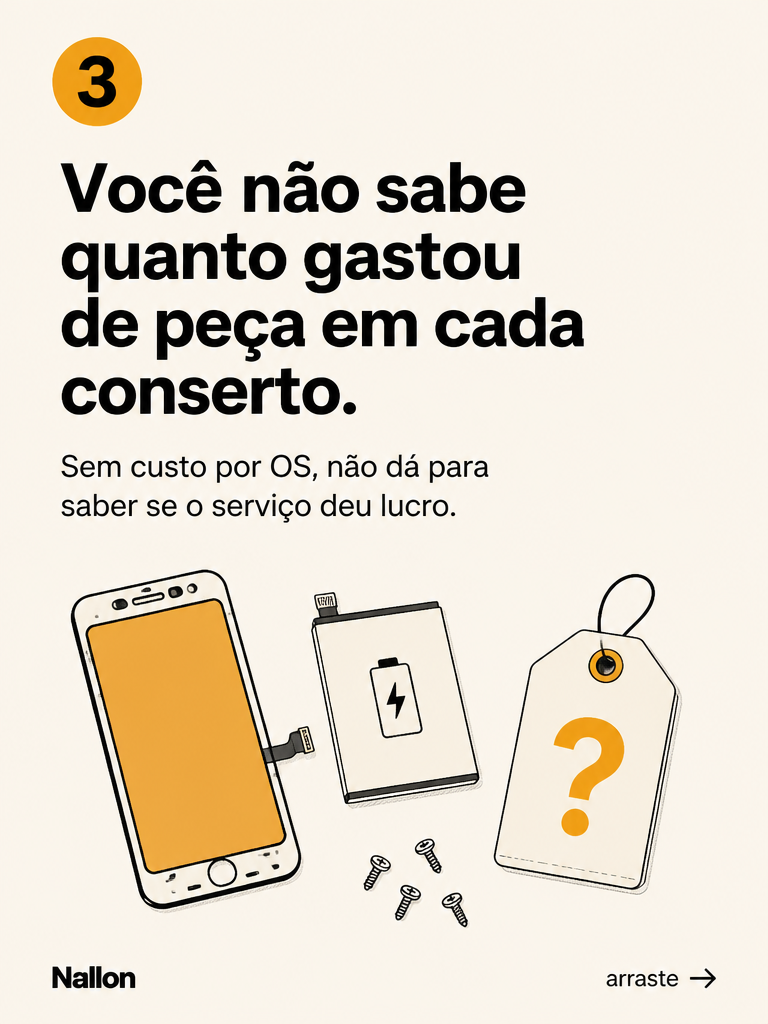
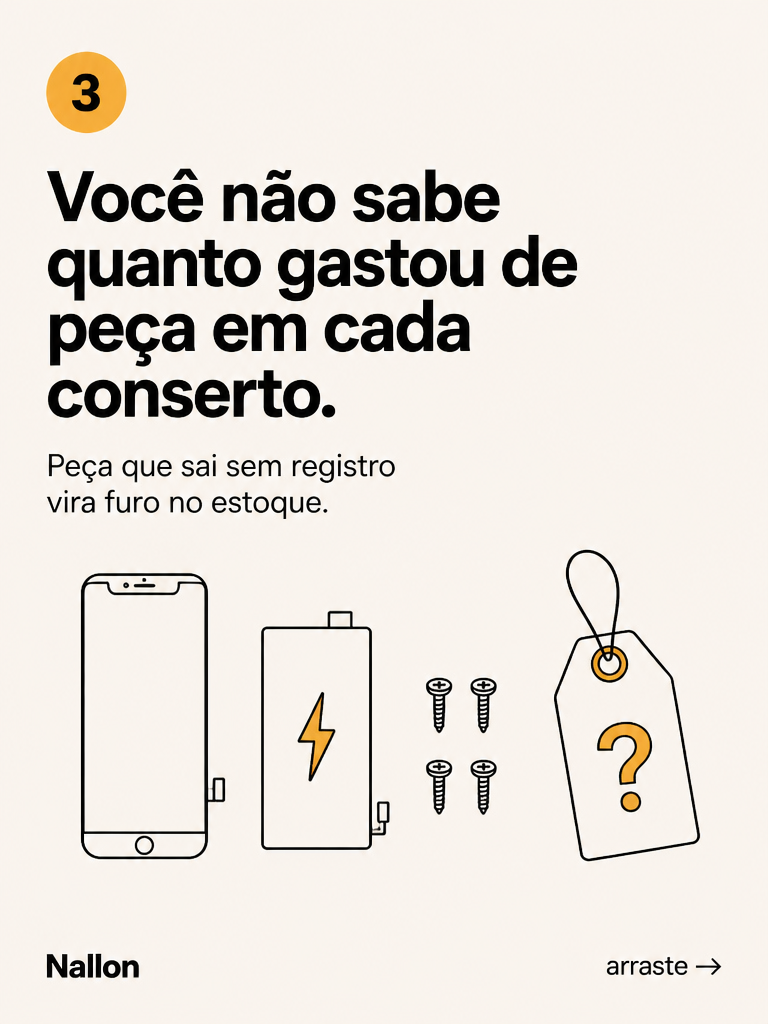
docs(semana-01): audit weekly plan and redo carousel slides 4 and 7
Slide 7 now names the Pro plan for the AI diagnosis and slide 4 no longer implies profit per service order. The plan gains a status table, alt text, fallback story answers, a metrics section and a refreshed pending list; captions get the brand hashtag and the WhatsApp call points to the bio link.

diff --git a/planejamento/semana-01.md b/planejamento/semana-01.md
@@ -1,47 +1,51 @@
 # Nallon no Instagram: semana 1
 
-Tem 3 posts no feed (um por nicho, um por objetivo) e Stories para os outros dias.
-Tudo aqui vem do que o sistema faz hoje. Não inventei número, depoimento nem cliente.
+Três posts no feed, um por nicho e um por objetivo, e Stories nos outros dias.
+Tudo aqui vem do que o sistema faz hoje: sem número, depoimento ou cliente inventado.
+As regras de conteúdo e a identidade ficam no `CLAUDE.md`; o estilo das artes, em `docs/guia-artes.md`.
 
-| Dia | Formato | Nicho | Objetivo |
-|---|---|---|---|
-| Seg | Carrossel | Assistência técnica | Reconhecimento |
-| Qua | Reels | Comércio geral | Teste grátis |
-| Sex | Post único | Prestadores de serviço | Contato WhatsApp |
-| Ter, Qui, Sáb | Stories | Todos | Os três |
+A semana ainda não tem data. Ao agendar, anote aqui a segunda-feira de início.
 
-Identidade visual: âmbar `#e8a33d`, fundo creme `#f5f1ea`, texto `#1a1714`. Títulos em Space Grotesk, texto em Geist.
-Use o mesmo modelo em todos os slides do carrossel. As artes prontas ficam em `artes/semana-01/`.
+| Dia | Formato | Nicho | Objetivo | Ação pedida | Arquivos | Situação |
+|---|---|---|---|---|---|---|
+| Seg | Carrossel | Assistência técnica | Reconhecimento | Comentar e enviar | `seg-carrossel-01` a `08` | Pronto |
+| Ter | Stories | Assistência técnica | Reconhecimento | Votar na enquete | `ter-story-enquete` | Pronto |
+| Qua | Reels | Comércio geral | Teste grátis | Link na bio | `videos/AAAA-MM-DD-pdv` | Gerar |
+| Qui | Stories | Todos | Teste grátis | Link do teste | `qui-story-pergunta`, `qui-story-teste` | Falta a captura do story 1 |
+| Sex | Post único | Prestadores de serviço | Contato WhatsApp | Chamar no WhatsApp | `sex-post` | Pronto |
+| Sáb | Stories | Todos | Contato WhatsApp | Chamar no WhatsApp | `sab-story-nota`, `sab-story-whatsapp` | Pronto |
+
+As artes ficam em `artes/semana-01/`. Barbearias e clínicas ficaram de fora desta semana: entram na semana 2.
 
 ---
 
 ## Segunda: carrossel (assistência técnica)
 
-Estrutura: lista numerada. Cada slide traz um problema que o técnico reconhece.
+Lista numerada: cada slide traz um problema que o técnico reconhece. A solução só aparece no slide 7.
 
 **Slide 1 (capa)**
 > 5 sinais de que sua assistência perdeu o controle das OS
 > (o 3º acontece toda semana)
 
-**Slide 2**
+**Slide 2 (sinal 1)**
 > O cliente liga perguntando do aparelho
 > e ninguém sabe dizer em que pé está.
 > Se a OS mora no caderno, a resposta mora na memória de alguém.
 
-**Slide 3**
+**Slide 3 (sinal 2)**
 > Aparelho pronto na prateleira há 30 dias
 > e você nem lembra de quem é.
 > Todo dia parado ocupa espaço e segura dinheiro.
 
-**Slide 4**
+**Slide 4 (sinal 3)**
 > Você não sabe quanto gastou de peça em cada conserto.
-> Sem custo por OS, não dá para saber se o serviço deu lucro.
+> Peça que sai sem registro vira furo no estoque.
 
-**Slide 5**
+**Slide 5 (sinal 4)**
 > O cliente pagou metade, vai pagar o resto "semana que vem"
 > e isso está anotado num papel que sumiu.
 
-**Slide 6**
+**Slide 6 (sinal 5)**
 > O diagnóstico depende de um técnico só.
 > Se ele falta, a bancada para.
 
@@ -64,29 +68,30 @@ Se você reconheceu 2 ou mais desses sinais, sua assistência já passou do tama
 
 O Nallon junta ordens de serviço, estoque, caixa e fiado num só sistema, direto no navegador. Não precisa instalar nada.
 
-Comenta quantos sinais você viu esta semana 👇
+Comenta quantos sinais você viu esta semana 👇 e manda este post para o seu sócio.
 
-#assistenciatecnica #ordemdeservico #assistenciadecelular #gestaodeloja
+#nallon #assistenciatecnica #ordemdeservico #assistenciadecelular #gestaodeloja
 ```
+
+**Texto alternativo:** Carrossel "5 sinais de que sua assistência perdeu o controle das OS", com ilustrações de bancada, caderno e aparelhos.
 
 ---
 
 ## Quarta: Reels (comércio geral)
 
-Formato: demonstração do PDV gerada com `/brag-instagram` (setor PDV), a partir do app local com a loja fictícia "Aurora Celulares". Duração: 20 a 30 s.
-Nada é gravado à mão: a skill captura as telas e gera a narração.
+Setor PDV, gerado com `/reels-nallon` a partir do app local, com a loja fictícia "Aurora Celulares". Duração de 20 a 30 s.
+A skill escreve o roteiro final em `planejamento/roteiros/pdv.md` e segue `docs/direcao-visual-reels.md`. A linha abaixo é o ponto de partida.
 
-| Tempo | Tela | Texto na tela | Fala |
-|---|---|---|---|
-| 0–3 s | Frase grande sobre o fundo da marca, depois corte para a tela do PDV | "Ainda vende no caderno?" | "Ainda anota venda no caderno?" |
-| 3–10 s | Código de barras digitado no campo (é o que o leitor faz) e itens entrando no carrinho | "Bipa o produto" | "No Nallon, você bipa o produto…" |
-| 10–18 s | Tecla F4, forma de pagamento, cupom na tela | "F4 finaliza. Cupom na hora." | "…aperta F4 para finalizar e imprime o cupom." |
-| 18–25 s | Estoque baixando e depois o dashboard | "O estoque baixa sozinho" | "O estoque já baixou e a venda já está no relatório." |
-| 25–27 s | "10 dias grátis, sem cartão" | "Teste grátis: link na bio" | "Testa dez dias grátis, sem cartão." |
-| 27–30 s | Encerramento limpo: logo Nallon e assinatura | "Nallon. Gestão inteligente para o seu negócio." | "Nallon. Gestão inteligente para o seu negócio." |
+| Cena | Tela | Fala |
+|---|---|---|
+| Gancho | Tela do PDV já aberta | "Ainda anota venda no caderno?" |
+| Bipar | Código de barras entra no campo e os itens caem no carrinho | "No Nallon, você bipa o produto…" |
+| Pagar | Tecla F4, forma de pagamento, cupom na tela | "…aperta F4 para finalizar e imprime o cupom." |
+| Resultado | Estoque baixando e a venda no relatório | "O estoque já baixou e a venda já está no relatório." |
+| Oferta | Tela do sistema | "Testa dez dias grátis, sem cartão." |
+| Encerramento | Logo do Nallon e a assinatura | "Nallon. Gestão inteligente para o seu negócio." |
 
-No PDV, F4 abre o pagamento. Não mostre F2 no vídeo: essa tecla abre a sangria.
-Legendas na tela: no máximo 2 linhas, de 3 a 5 palavras cada.
+No PDV, F4 abre o pagamento. Não mostre F2: essa tecla abre a sangria.
 
 **Legenda**
 
@@ -99,7 +104,7 @@ Funciona no computador, no tablet ou no celular da loja. A partir de R$ 47/mês,
 
 👉 10 dias grátis, sem cartão: link na bio.
 
-#pdv #frentedecaixa #pequenonegocio #lojadebairro #gestaodeloja
+#nallon #pdv #frentedecaixa #lojadebairro #gestaodeloja
 ```
 
 ---
@@ -107,7 +112,7 @@ Funciona no computador, no tablet ou no celular da loja. A partir de R$ 47/mês,
 ## Sexta: post único (prestadores de serviço)
 
 **Arte**
-Print do link público de agendamento no celular, com fundo creme e destaque âmbar.
+Ilustração em traço de um celular com a tela de agendamento (calendário e horários livres), fundo creme, destaque âmbar e botão "Chama no WhatsApp".
 
 > Texto grande: **Seu cliente marca o horário sozinho.**
 > Texto menor: Você só aparece para atender.
@@ -119,38 +124,60 @@ Quanto tempo do seu dia vai em "tem horário amanhã?" no WhatsApp?
 
 Com o Nallon, você manda um link. O cliente escolhe o horário livre e o agendamento entra direto na sua agenda.
 
-No plano Pro, o lembrete vai sozinho pelo WhatsApp e o cliente não esquece.
+No plano Pro, o lembrete vai sozinho pelo WhatsApp, para o cliente não esquecer.
 
-Quer ver funcionando no seu tipo de serviço? Chama no WhatsApp: [WhatsApp comercial]. Atendimento de segunda a sexta, das 8h às 18h.
+Quer ver funcionando no seu tipo de serviço? Chama no WhatsApp: link na bio ou [WhatsApp comercial]. Atendimento de segunda a sexta, das 8h às 18h.
 
-#agendamentoonline #prestadordeservico #autonomo #agendaonline
+#nallon #agendamentoonline #prestadordeservico #autonomo #agendaonline
 ```
 
 O link de agendamento existe nos dois planos. Os lembretes automáticos são só do Pro, por isso a legenda cita o plano.
+Telefone escrito em legenda não vira link: o caminho de um toque é o link da bio.
+
+**Texto alternativo:** Ilustração de um celular com calendário de agendamento e a frase "Seu cliente marca o horário sozinho".
 
 ---
 
 ## Stories
 
-**Terça (reconhecimento, enquete)**
-1. "Como você controla as OS hoje?" Enquete: Caderno / Planilha / Sistema
+**Terça (reconhecimento)**
+1. Arte `ter-story-enquete`: "Como você controla as OS hoje?" Enquete: Caderno / Planilha / Sistema.
 2. Reposte o carrossel de segunda: "5 sinais. Quantos você tem?"
 
 **Quinta (teste grátis)**
-1. Bastidor: tela do Nallon aberta no celular. Texto: "Isso aqui é o sistema inteiro. No navegador."
-2. Caixa de pergunta: "O que você quer saber sobre o Nallon?"
-3. Adesivo de link para o teste grátis: "10 dias grátis, sem cartão"
+1. Bastidor: tela do Nallon aberta no celular. Texto: "Isso aqui é o sistema inteiro. No navegador." A captura vem do app local, com a "Aurora Celulares". Nunca de produção.
+2. Arte `qui-story-pergunta`, com caixa de pergunta: "O que você quer saber sobre o Nallon?"
+3. Arte `qui-story-teste`, com adesivo de link para `nallon.com.br/planos`: "10 dias grátis, sem cartão".
 
 **Sábado (WhatsApp)**
 1. Responda 2 ou 3 perguntas da caixa de quinta.
-2. Uma das respostas pode ser: "Emite nota fiscal?"
-   Resposta honesta: "Não. O Nallon é focado na gestão do balcão, sem certificado digital nem trava de SEFAZ."
-3. Adesivo de link para o WhatsApp: "Tira sua dúvida com a gente"
+2. Arte `sab-story-nota`: "Emite nota fiscal?" Resposta: "Não. O Nallon é focado na gestão do balcão, sem certificado digital nem trava de SEFAZ."
+3. Arte `sab-story-whatsapp`, com adesivo de link para o WhatsApp: "Tira sua dúvida com a gente".
+
+Se a caixa de quinta vier vazia, responda perguntas comuns, só com o que vale hoje:
+
+- "Precisa instalar?" Não. Roda no navegador, no computador, no tablet ou no celular.
+- "Quanto custa?" Básico R$ 47,00 por mês e Pro R$ 87,00 por mês. São 10 dias grátis, sem cartão.
+- "Tem fidelidade?" Não.
+
+---
+
+## O que medir no fim da semana
+
+| Objetivo | Peça | Número que importa |
+|---|---|---|
+| Reconhecimento | Carrossel e enquete | Alcance, salvamentos, envios, comentários e votos |
+| Teste grátis | Reels e stories de quinta | Toques no link da bio e no adesivo de link |
+| Contato WhatsApp | Post de sexta e stories de sábado | Conversas iniciadas no WhatsApp |
+
+Anote os números aqui antes de planejar a semana 2. O horário de cada post sai desses dados: sem histórico, não há horário melhor para recomendar.
 
 ---
 
 ## Pendências antes de publicar
 
-1. ~~Coloque na bio o link do teste grátis (nallon.com.br/planos).~~ Feito.
-2. Gere o Reels de quarta com `/reels-nallon`, setor PDV.
-3. Na legenda de sexta, troque `[WhatsApp comercial]` pelo número na hora de publicar.
+1. Gerar o Reels de quarta com `/reels-nallon`, setor PDV.
+2. Capturar a tela do story 1 de quinta no app local.
+3. Colocar o WhatsApp como segundo link da bio. O primeiro, do teste grátis (`nallon.com.br/planos`), já está lá.
+4. Na legenda de sexta, trocar `[WhatsApp comercial]` pelo número na hora de publicar.
+5. Definir as datas e anotar a segunda-feira de início no topo.
